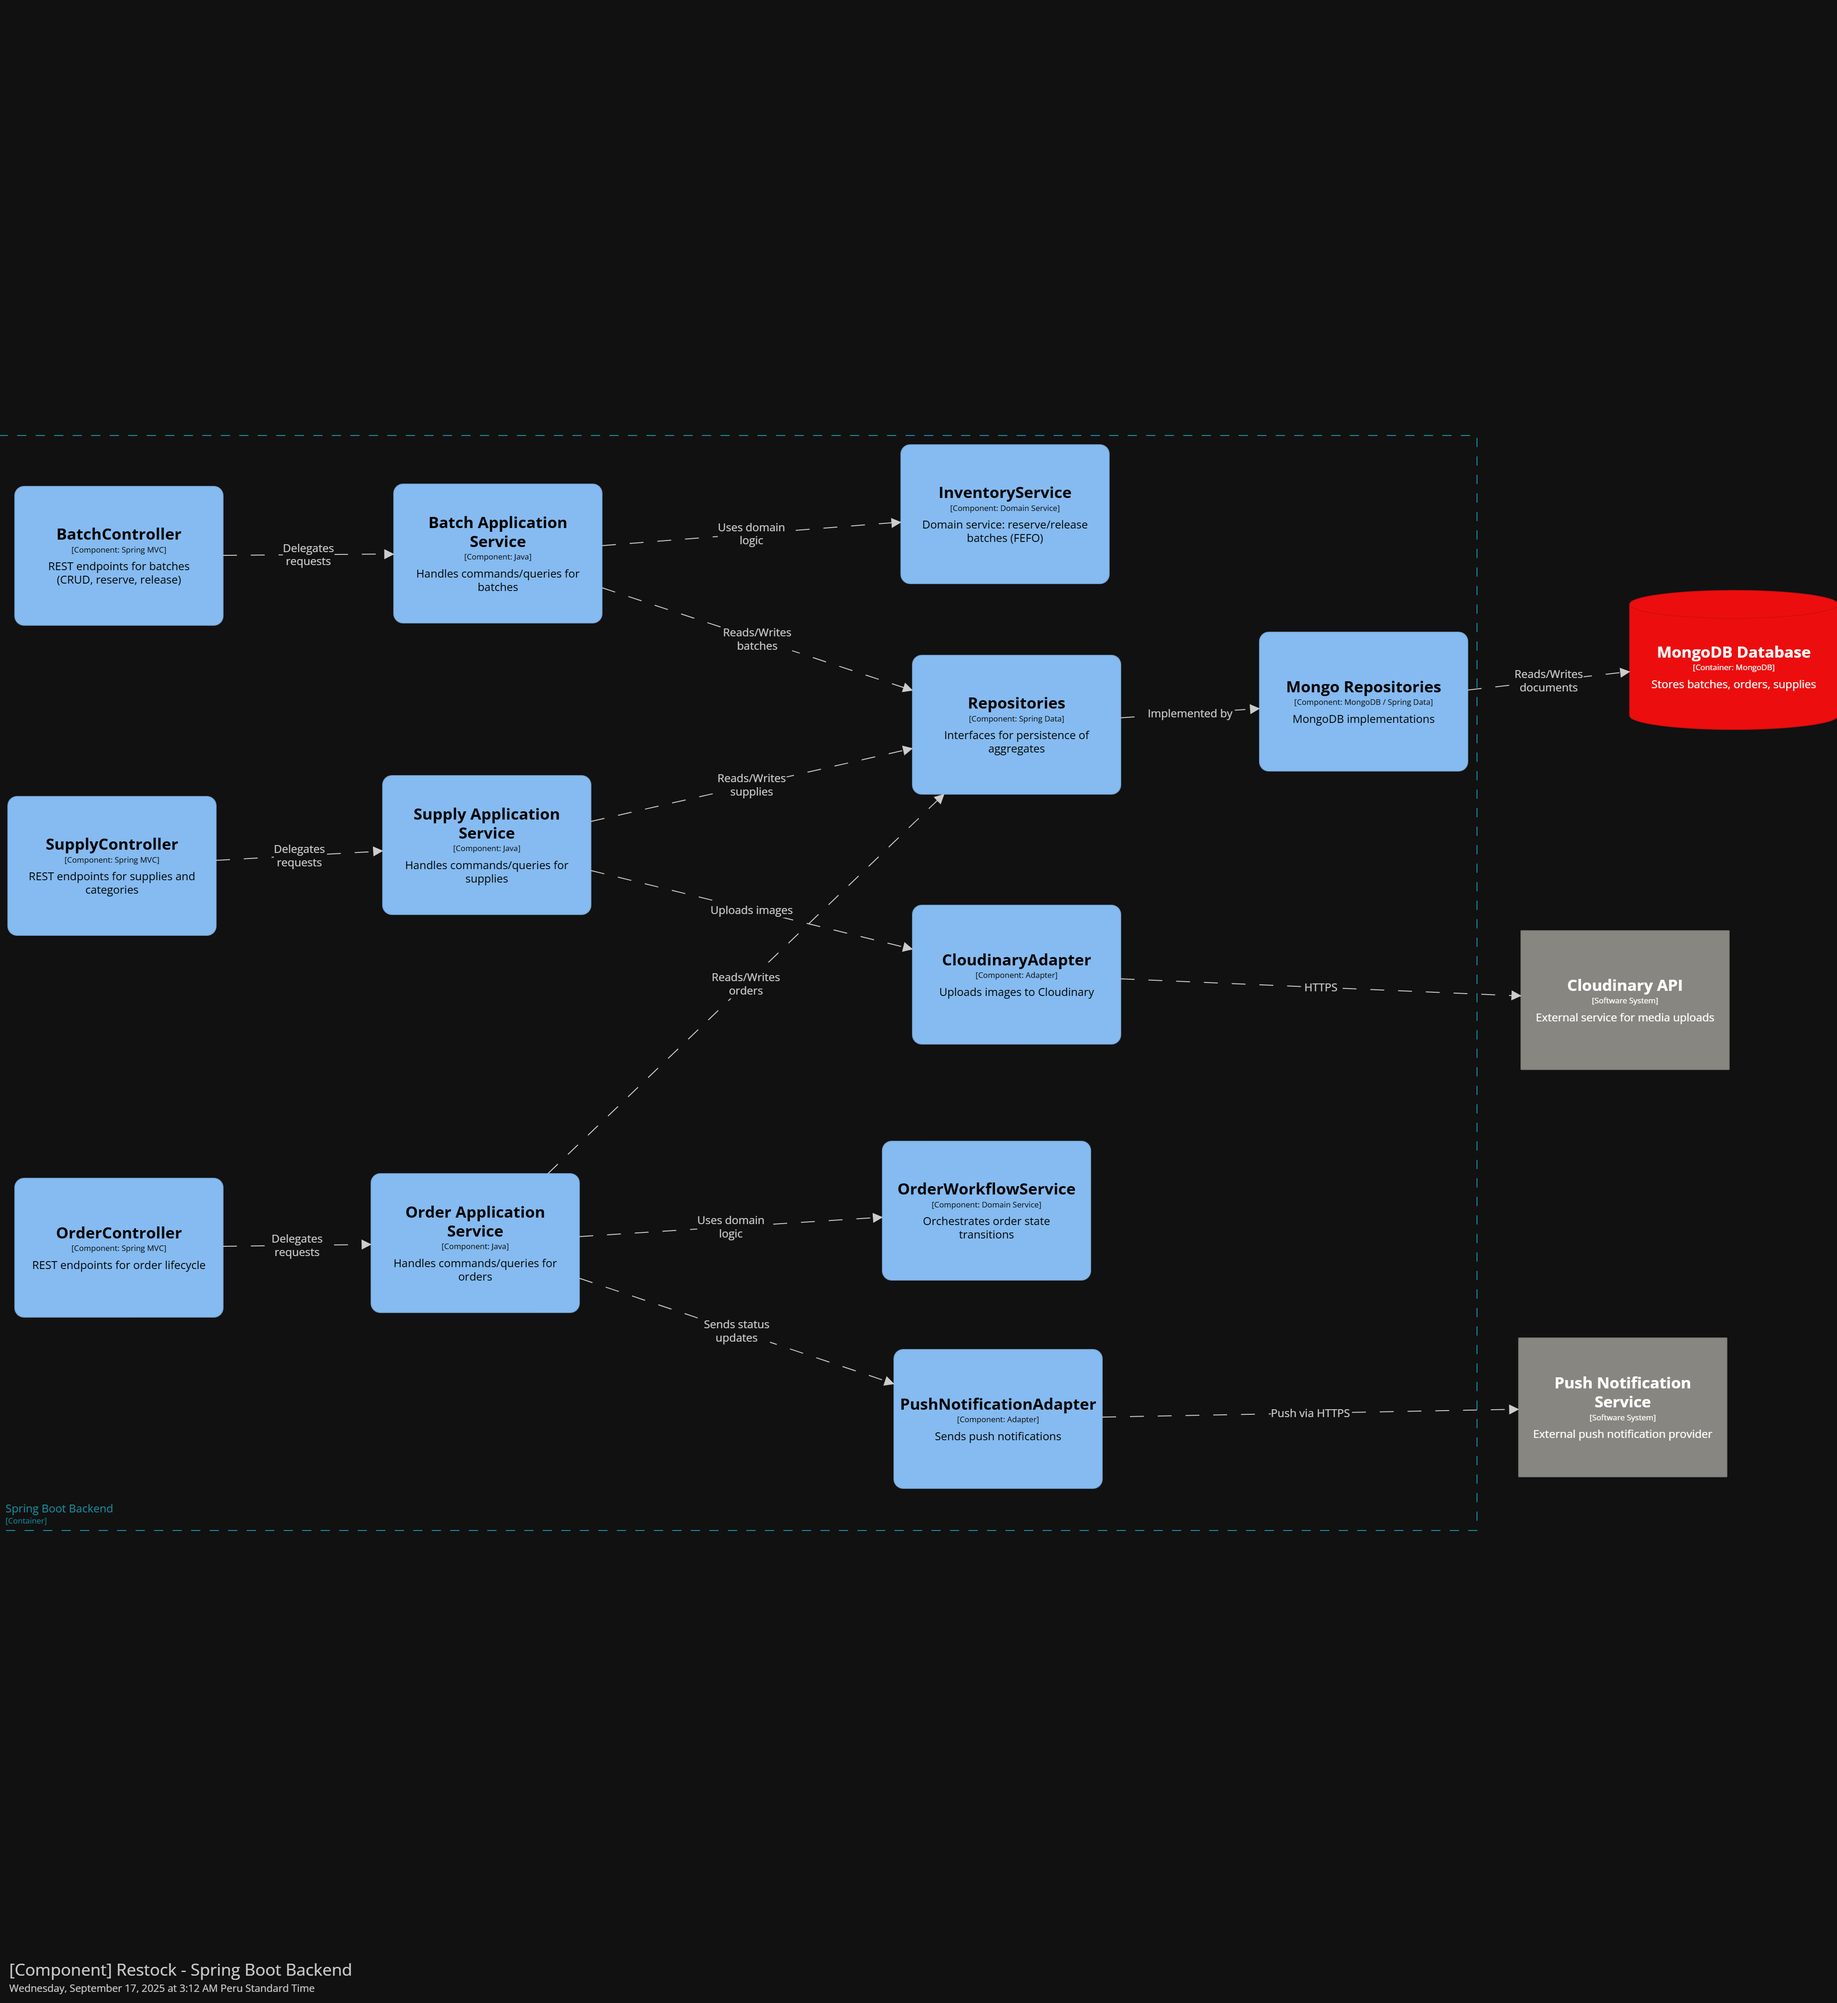
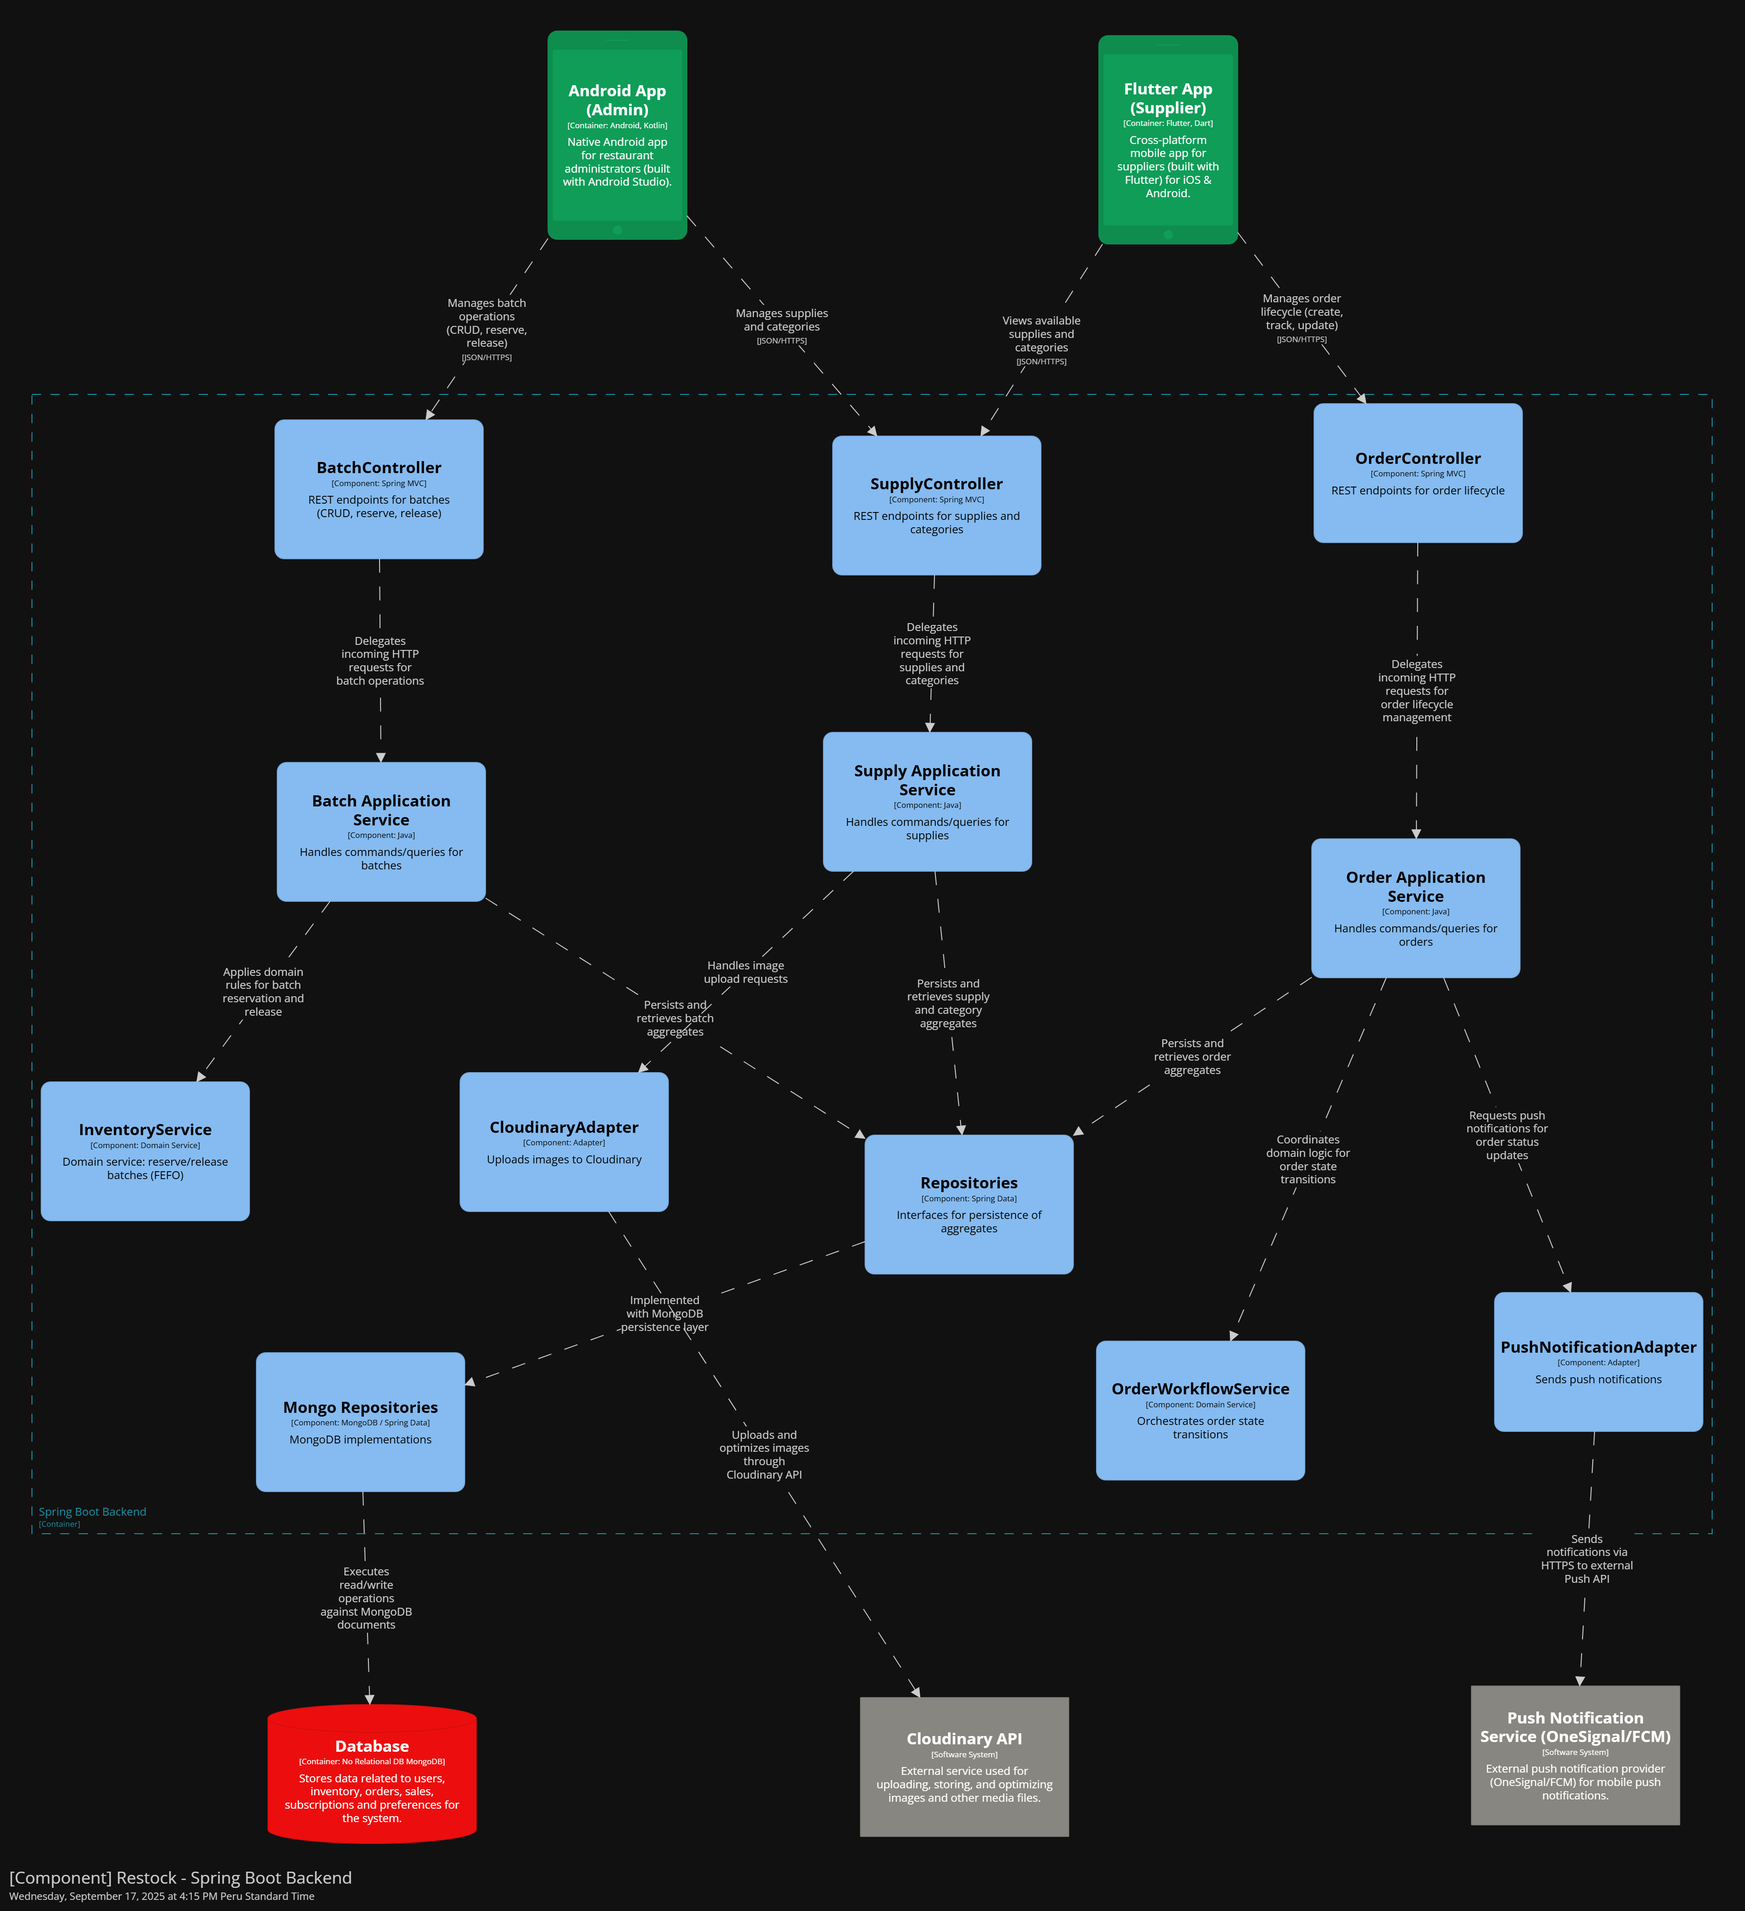
fix: update component diagram for Restock Resource bounded context

diff --git a/05-cap4-solution-software-design.md b/05-cap4-solution-software-design.md
@@ -1380,18 +1380,17 @@ El diagrama refleja los siguientes elementos clave:
 - **Usuarios principales**:  
   - *Restaurant Administrator* y *Supplier*, quienes interactúan con el sistema a través de las aplicaciones móviles.  
 
-- **Aplicaciones cliente**:  
-  - **Landing Page**: desarrollada en *HTML, CSS y JS*, sirve como punto de entrada al sistema con información de marketing y acceso a la aplicación.  
+- **Aplicaciones cliente**:   
   - **Android App (Admin)**: aplicación nativa en *Kotlin*, enfocada en la gestión de inventario.  
   - **Flutter App (Supplier)**: aplicación multiplataforma en *Flutter*, enfocada en la gestión de insumos y pedidos.  
 
 - **Persistencia de datos**:  
-  - **MongoDB Database**, representada como un cilindro, almacena la información de *batches*, *supplies* y *orders*.  
+  - **Database**, representada como un cilindro, almacena la información de *batches*, *supplies* y *orders*.  
 
 - **Backend principal (Spring Boot Backend)**:  
   Este container se descompone en múltiples capas y componentes:  
   - **API Layer (Spring MVC Controllers)**:  
-    - *BatchController*, *OrderController* y *SupplyController* exponen los endpoints REST.  
+    - *BatchController*, *OrderController* y *SupplyController* exponen los endpoints REST, consumidos directamente por las aplicaciones móviles.
   - **Application Layer (Java Services)**:  
     - *Batch Application Service*, *Order Application Service* y *Supply Application Service* procesan comandos y queries para cada agregado.  
   - **Domain Layer (Domain Services)**:  
@@ -1409,10 +1408,11 @@ El diagrama refleja los siguientes elementos clave:
   - *Cloudinary API* gestiona la subida y optimización de imágenes.  
 
 - **Flujos de comunicación destacados**:  
+  - Las aplicaciones cliente (Android App y Flutter App) consumen los endpoints REST expuestos en los *Controllers*.  
   - Los *Controllers* delegan a los *Application Services*.  
   - Los *Application Services* utilizan *Domain Services* para lógica compleja.  
   - La persistencia se realiza a través de *Repositories* y *Mongo Repositories* hacia la base de datos.  
-  - Los adaptadores gestionan la integración con servicios externos de terceros (Cloudinary y Push).  
+  - Los adaptadores gestionan la integración con servicios externos de terceros (Cloudinary y One signal).  
 
 #### 4.2.4.6. Bounded Context Software Architecture Code Level Diagrams
 
